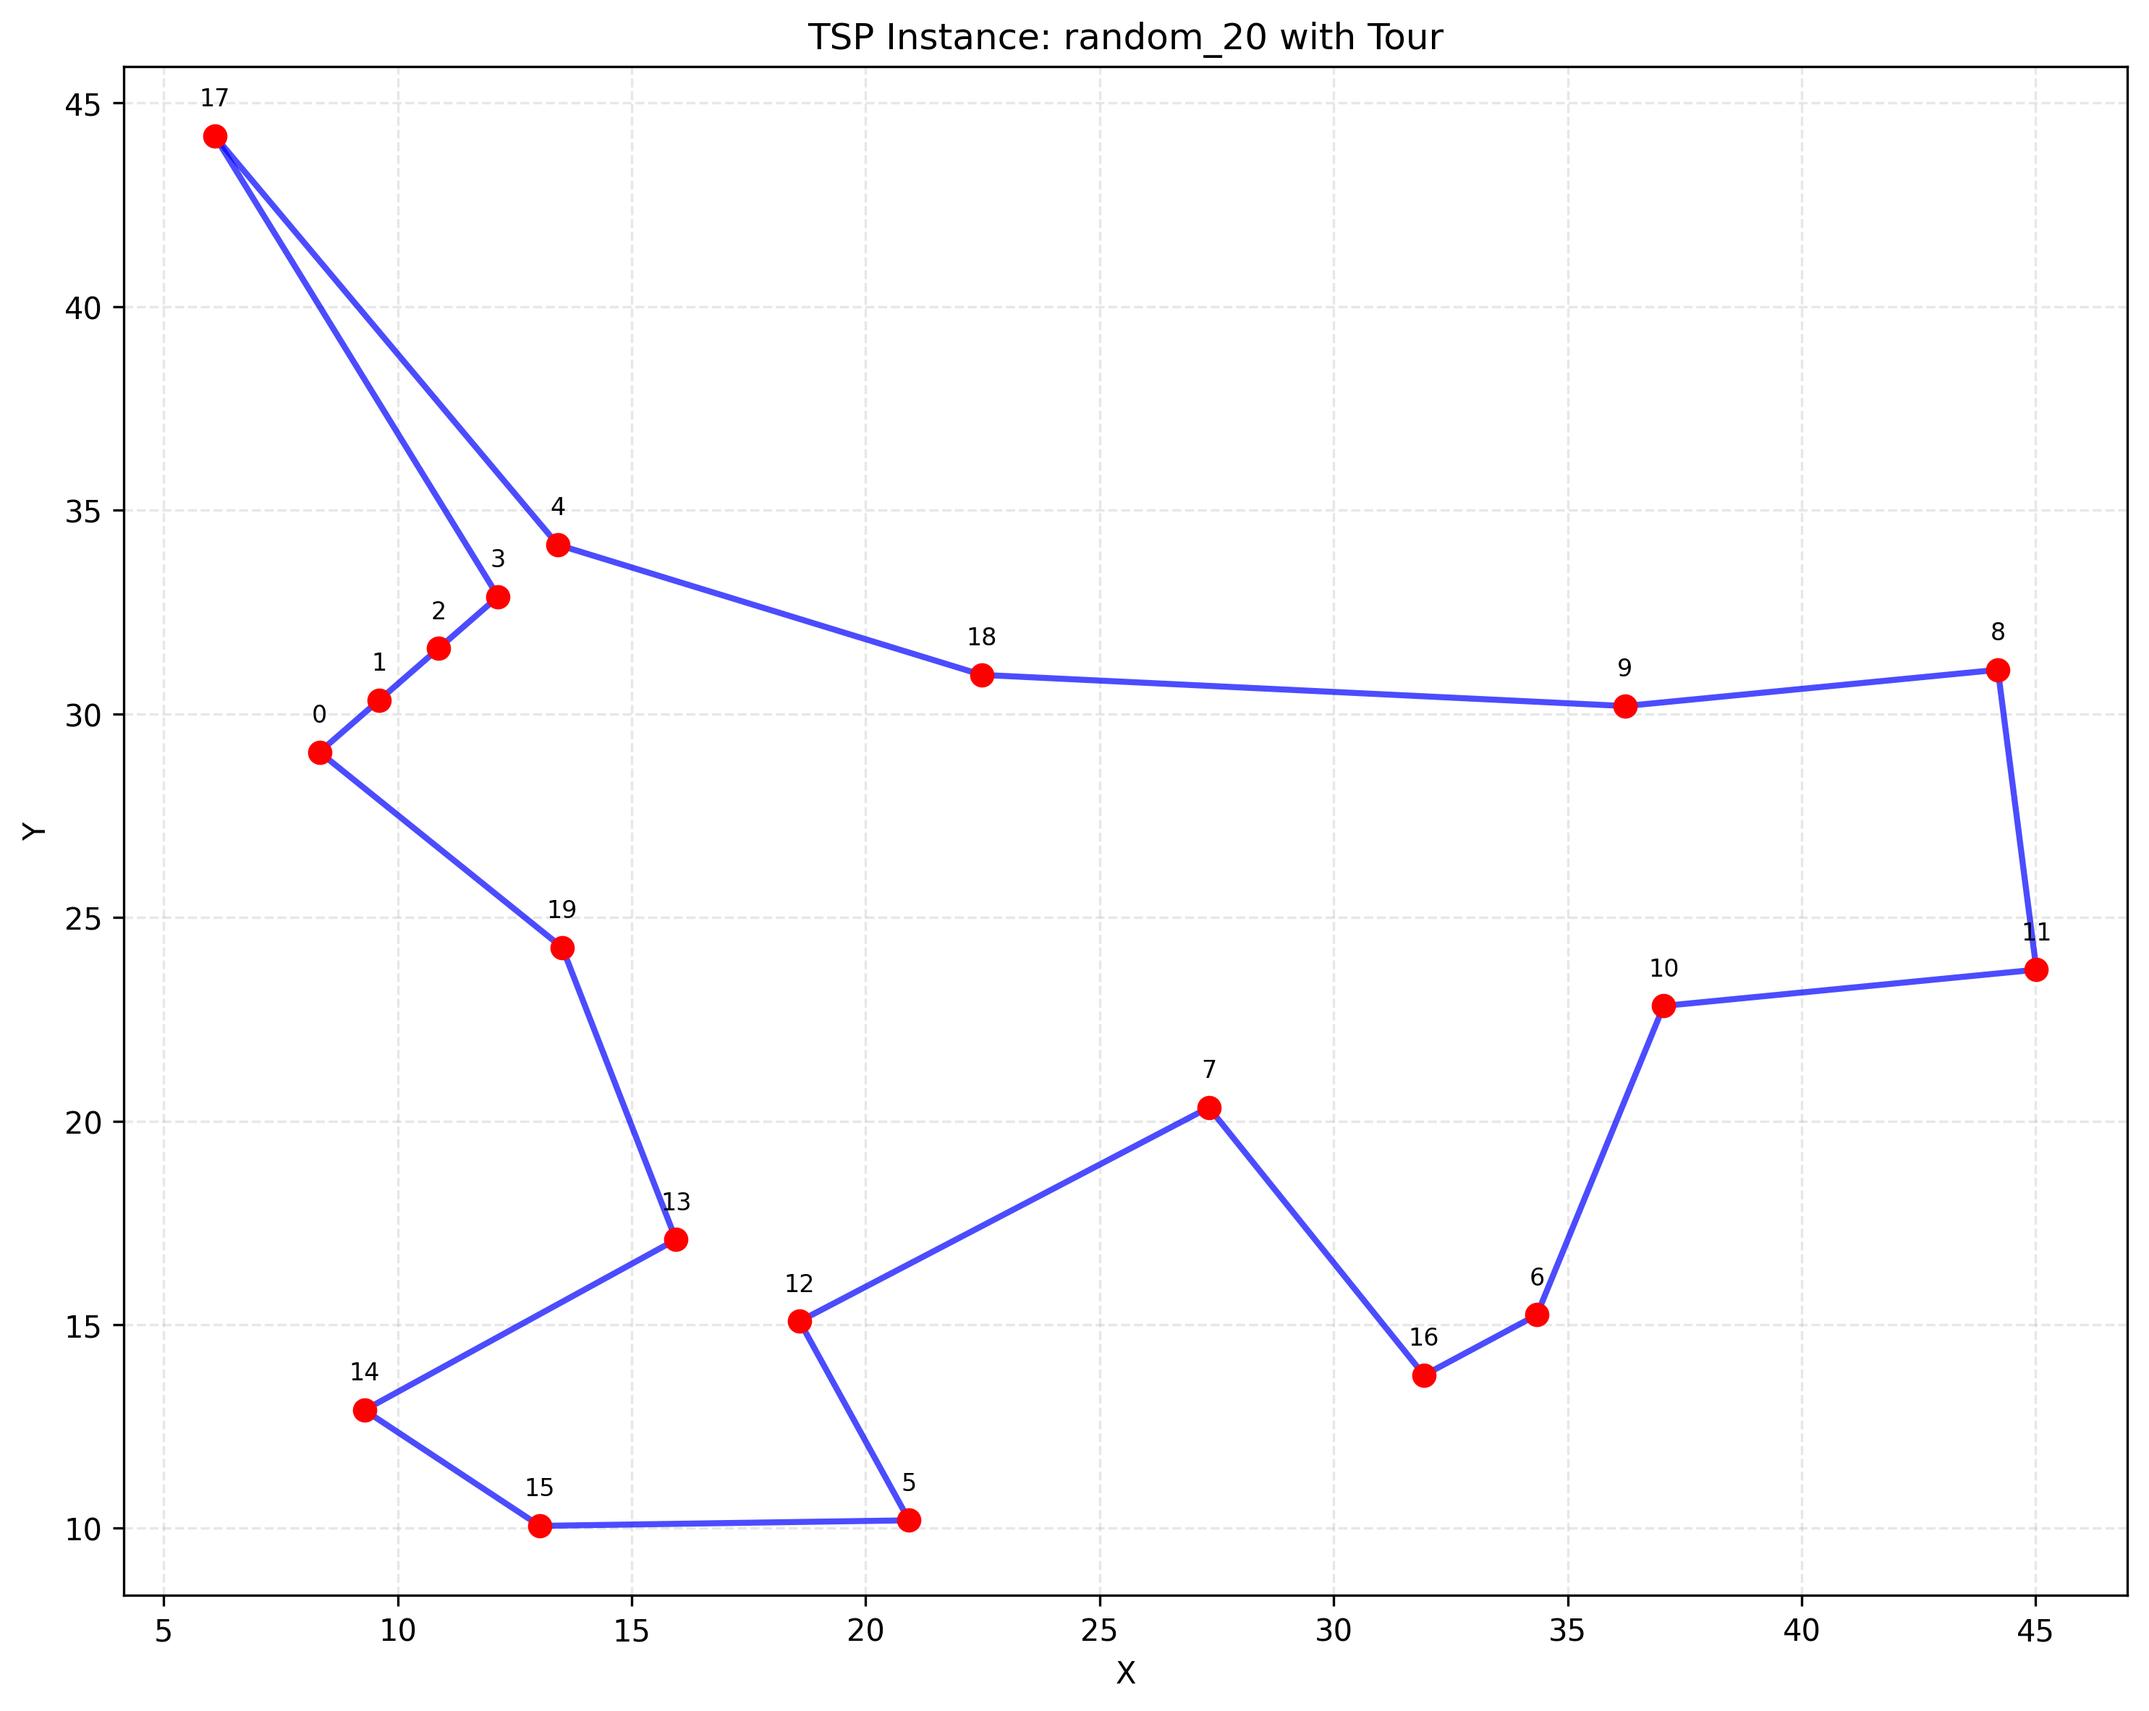
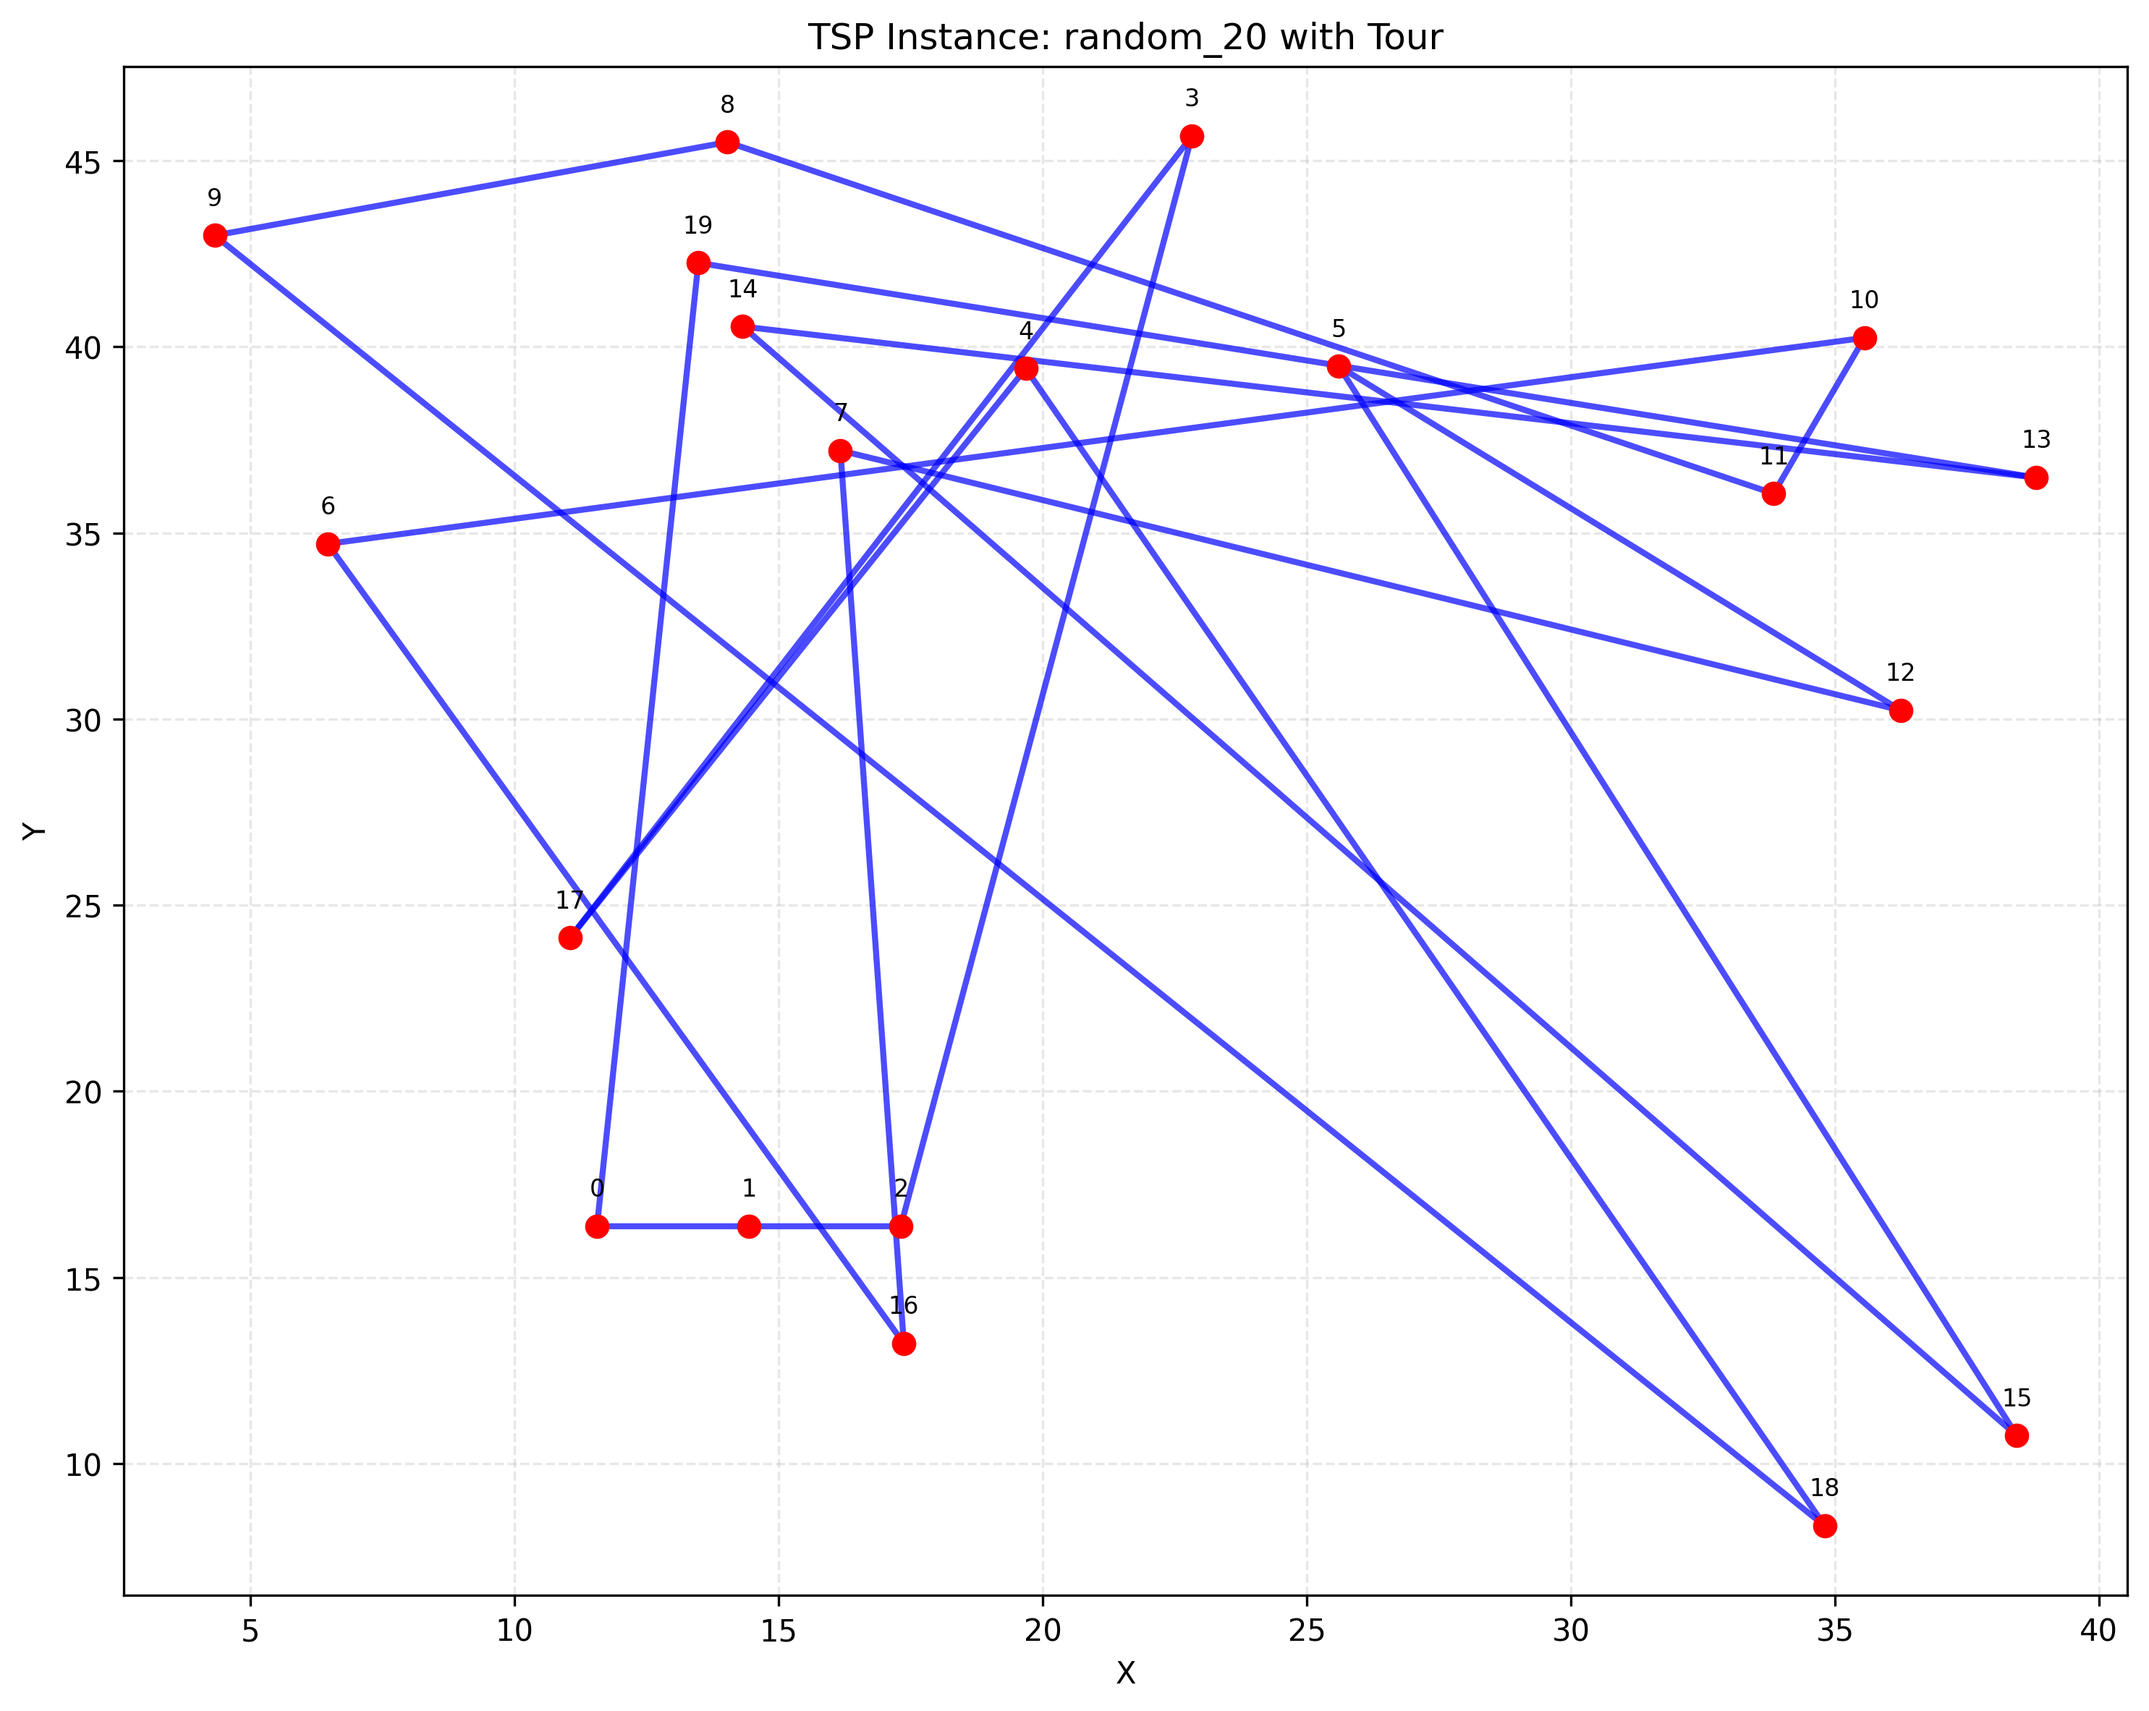
feat: improved plot script for part 2

diff --git a/part_two/plot.py b/part_two/plot.py
@@ -10,33 +10,45 @@ def parse_ga_solution_file(file_path):
     """
     with open(file_path, 'r') as file:
         lines = file.readlines()
-
     # Filter out comment lines and empty lines
     lines = [line.strip() for line in lines if line.strip() and not line.strip().startswith('//')]
-
     points = []
     node_order = []
     node_coords = {}
-
     for line in lines:
         parts = line.split()
         if len(parts) >= 3:
             node_id = int(parts[0])
             x_coord = float(parts[1])
             y_coord = float(parts[2])
-
             node_order.append(node_id)
             node_coords[node_id] = (x_coord, y_coord)
             points.append((x_coord, y_coord))
-
     # Create tour edges from the node order
     tour_edges = {}
     for i in range(len(node_order)):
         current_node = node_order[i]
         next_node = node_order[(i + 1) % len(node_order)]  # Wrap around to the first node
         tour_edges[(current_node, next_node)] = 1.0
-
     return points, node_coords, node_order, tour_edges
+
+
+def parse_graph_file(file_path):
+    """
+    Parses a TSP graph file to extract the coordinates of the cities.
+    """
+    with open(file_path, 'r') as file:
+        lines = file.readlines()
+
+    n_points = int(lines[0])
+    points = []
+    for i in range(1, n_points + 1):
+        if i < len(lines):
+            coords = lines[i].strip().split(' ')[1:]
+            assert len(coords) == 2, f"Expected 2 coordinates, got {len(coords)}"
+            x, y = float(coords[0]), float(coords[1])
+            points.append((x, y))
+    return points
 
 
 def plot_tsp_solution(points, node_coords, node_order, tour_edges, title="TSP Tour"):
@@ -44,60 +56,103 @@ def plot_tsp_solution(points, node_coords, node_order, tour_edges, title="TSP To
     Plots the TSP tour based on the nodes in order.
     """
     plt.figure(figsize=(10, 8))
-
-    # Plot all nodes
-    for node_id, (x, y) in node_coords.items():
-        plt.scatter(x, y, color='green', s=100)
-        plt.annotate(str(node_id), (x, y), textcoords="offset points",
-                     xytext=(0, 10), ha='center')
-
-    # Draw the tour based on node order
-    for i in range(len(node_order)):
-        current_node = node_order[i]
-        next_node = node_order[(i + 1) % len(node_order)]
-
-        current_x, current_y = node_coords[current_node]
-        next_x, next_y = node_coords[next_node]
-
-        plt.plot([current_x, next_x], [current_y, next_y],
-                 '--k', linewidth=1.5, alpha=0.7, zorder=1)
+    
+    # If we have node_coords, use them; otherwise use points with indices
+    if node_coords:
+        # Plot all nodes using node_coords
+        for node_id, (x, y) in node_coords.items():
+            plt.scatter(x, y, color='red', s=50, zorder=3)
+            plt.annotate(str(node_id), (x, y), textcoords="offset points",
+                         xytext=(0, 10), ha='center', fontsize=8)
+        
+        # Draw the tour based on node order
+        for i in range(len(node_order)):
+            current_node = node_order[i]
+            next_node = node_order[(i + 1) % len(node_order)]
+            current_x, current_y = node_coords[current_node]
+            next_x, next_y = node_coords[next_node]
+            plt.plot([current_x, next_x], [current_y, next_y],
+                     'b-', linewidth=2, alpha=0.7, zorder=2)
+    else:
+        # Fallback: just plot points
+        x_coords = [p[0] for p in points]
+        y_coords = [p[1] for p in points]
+        plt.scatter(x_coords, y_coords, color='red', s=50, zorder=3)
+        
+        # Add point labels
+        for i, (x, y) in enumerate(points):
+            plt.annotate(str(i), (x, y), textcoords="offset points",
+                         xytext=(0, 10), ha='center', fontsize=8)
 
     plt.title(title)
     plt.xlabel('X')
     plt.ylabel('Y')
-    plt.grid(True, linestyle='--', alpha=0.7)
+    plt.grid(True, linestyle='--', alpha=0.3)
     plt.tight_layout()
 
 
 def main():
-    parser = argparse.ArgumentParser(description='TSP Solution Visualizer for GA solutions')
-    parser.add_argument('-i', '--instance', required=True, help='TSP instance name (without extension)')
+    parser = argparse.ArgumentParser(description='TSP Visualizer - Plot points and optionally GA tour from solution')
+    parser.add_argument('-d', '--dat', required=True, help='Path to TSP instance file (.dat)')
+    parser.add_argument('-s', '--sol', help='Path to GA solution file (.ga) - optional')
+    parser.add_argument('-o', '--output', help='Output image file path - optional')
 
     args = parser.parse_args()
-    instance = args.instance
 
-    working_dir = os.path.dirname(os.path.abspath(__file__))
-    samples_dir = os.path.join(working_dir, "../samples")
-
-    # Update file paths for .ga files
-    sol_file = os.path.join(samples_dir, f"{instance}_sol.ga")
-    output_file = os.path.join(samples_dir, f"{instance}_tour.png")
-
-    if not os.path.exists(sol_file):
-        print(f"Error: Solution file not found at {sol_file}")
+    # Check if dat file exists
+    if not os.path.exists(args.dat):
+        print(f"Error: Instance file not found at {args.dat}")
         return
 
+    # Parse the instance file
     try:
-        points, node_coords, node_order, tour_edges = parse_ga_solution_file(sol_file)
-        plot_tsp_solution(points, node_coords, node_order, tour_edges,
-                          title=f"TSP Tour for {instance} (GA solution)")
-        plt.savefig(output_file, dpi=300, bbox_inches='tight')
-        print(f"GA tour plot saved to {output_file}")
-
-        # Also show the plot
-        plt.show()
+        points = parse_graph_file(args.dat)
+        print(f"Loaded {len(points)} points from instance file")
     except Exception as e:
-        print(f"Error: {e}")
+        print(f"Error parsing instance file: {e}")
+        return
+
+    # Check if GA solution file exists (if provided)
+    node_coords = None
+    node_order = None
+    tour_edges = None
+    
+    if args.sol:
+        if not os.path.exists(args.sol):
+            print(f"Error: Solution file not found at {args.sol}")
+            return
+        try:
+            points_from_ga, node_coords, node_order, tour_edges = parse_ga_solution_file(args.sol)
+            print(f"Loaded GA tour with {len(tour_edges)} edges")
+        except Exception as e:
+            print(f"Error parsing GA solution file: {e}")
+            return
+
+    # Generate title from filename
+    instance_name = os.path.splitext(os.path.basename(args.dat))[0]
+    title = f"TSP Instance: {instance_name}"
+    if tour_edges:
+        title += " with GA Tour"
+
+    # Plot the solution
+    plot_tsp_solution(points, node_coords, node_order, tour_edges, title)
+
+    # Save or show the plot
+    if args.output:
+        plt.savefig(args.output, dpi=300, bbox_inches='tight')
+        print(f"Plot saved to {args.output}")
+    else:
+        # Generate default output filename
+        output_dir = os.path.dirname(args.dat)
+        if tour_edges:
+            output_file = os.path.join(output_dir, f"{instance_name}_tour.png")
+        else:
+            output_file = os.path.join(output_dir, f"{instance_name}_points.png")
+
+        plt.savefig(output_file, dpi=300, bbox_inches='tight')
+        print(f"Plot saved to {output_file}")
+
+    plt.show()
 
 
 if __name__ == "__main__":

diff --git a/part_one/src/tsp/formulation.cpp b/part_one/src/tsp/formulation.cpp
@@ -34,7 +34,8 @@ void Formulation::export_solution() {
 }
 
 string Formulation::instance_formulation_code() const {
-    return instance_name + "_" + formulation_code();
+    // remove .dat from instance name
+    return instance_name.substr(0, instance_name.find_last_of('.')) + "_" + formulation_code();
 }
 
 Formulation::Formulation(const char *instance_name, const int timeout)
